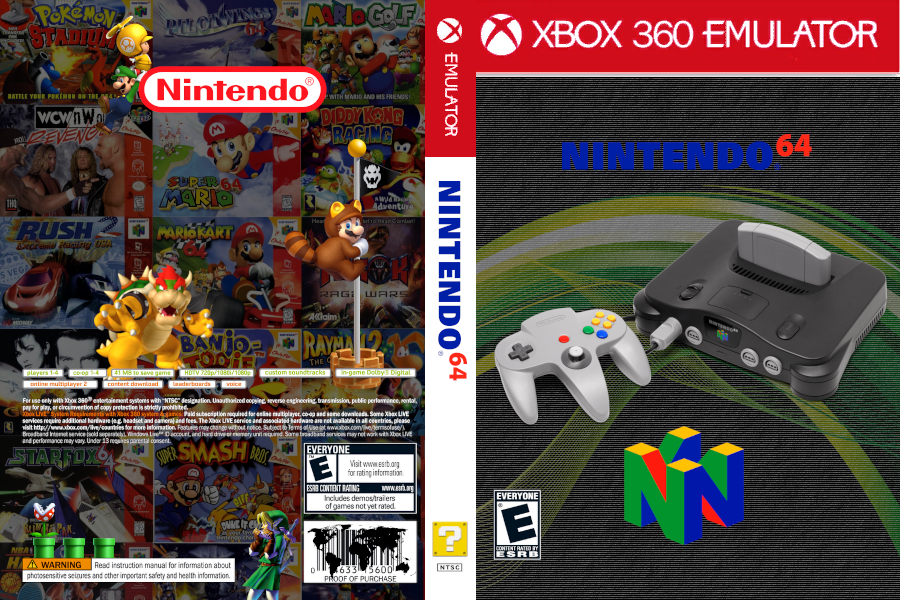
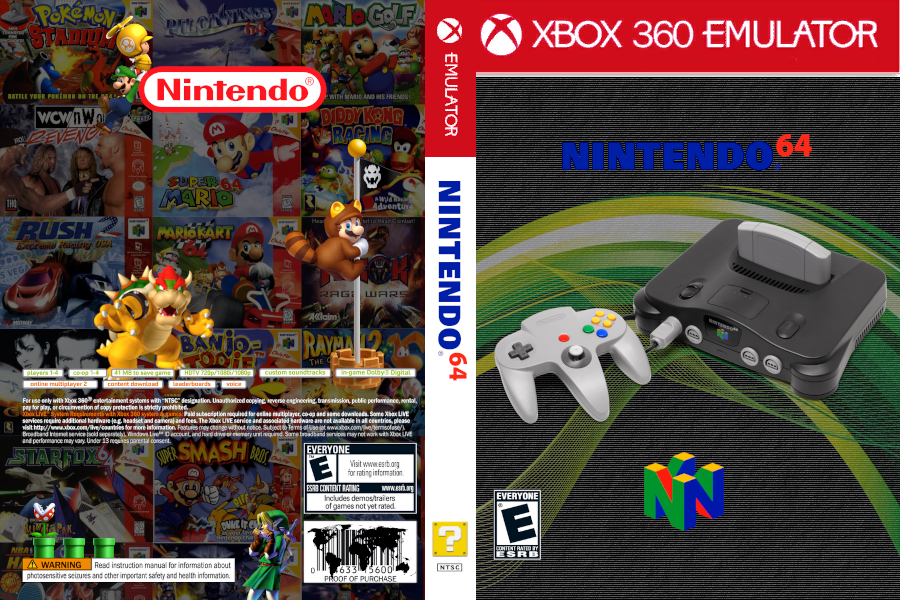
Modified cover
Improved readability of brand logo and adjusted icon size

diff --git a/covers/Homebrew/Harissa64/README.md b/covers/Homebrew/Harissa64/README.md
@@ -15,5 +15,5 @@
 - Date of submission: 2026-11-09
 - Author Notes  
 	Custom cover featuring a high-quality scan of the Nintendo 64 console.
-	Back cover includes box art sourced from StickPNG:
+	Back cover includes box arts sourced online, character scans from StickPNG:
 	**Image Credit:** [Free Transparent PNG Images, Stickers & No Background Clipart - StickPNG](https://www.stickpng.com)
